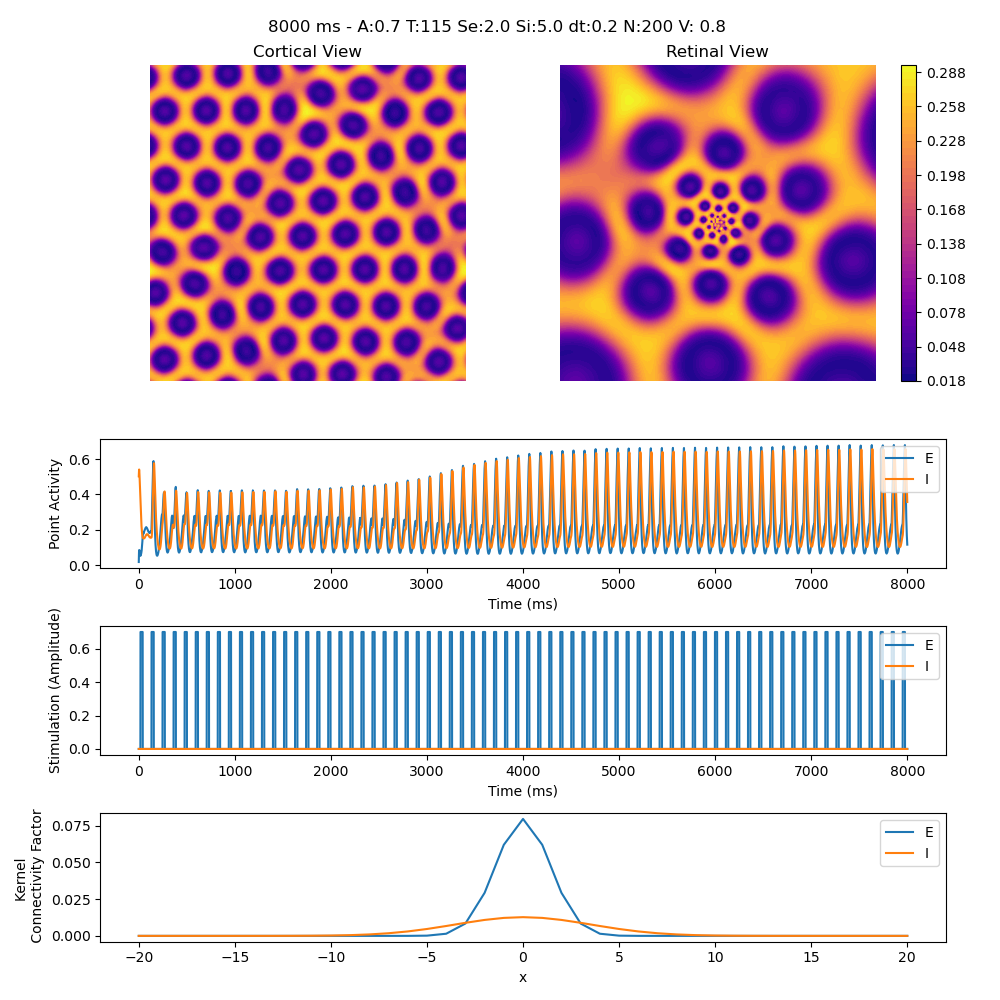
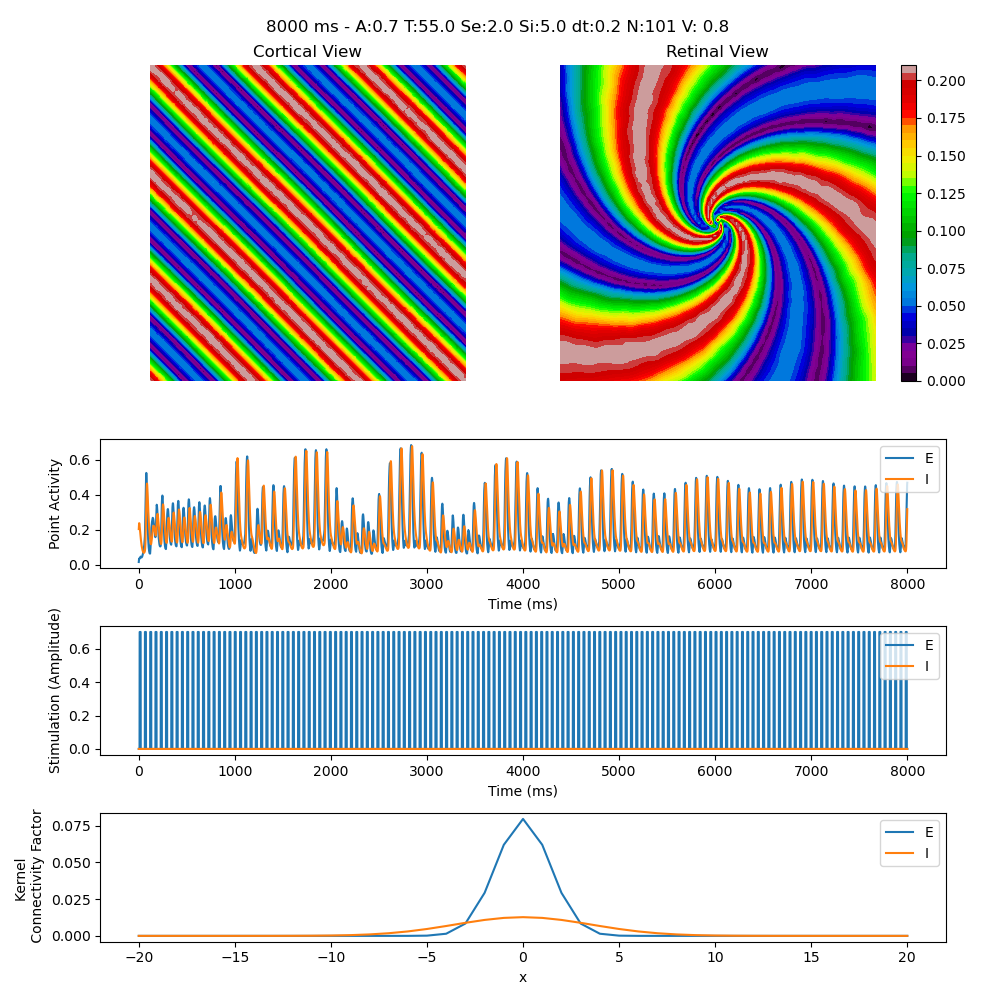
edited README, added environment.yml

diff --git a/src/model.py b/src/model.py
@@ -1,5 +1,4 @@
 import numpy as np
-from scipy.signal import fftconvolve
 from tqdm import tqdm
 
 from .params import ModelParams

diff --git a/README.md b/README.md
@@ -1,60 +1,61 @@
-# Python Implementation of the Rule–Stoffregen–Ermentrout (2011) Stroboscopic Hallucination Model
-*A project for systematically exploring and creating flicker-induced geometric hallucinations.*
+# Python Implementation of the Rule–Stoffregen–Ermentrout Model of Stroboscopic Hallucinations
+*A project for systematically exploring and generating simulations of flicker-induced geometric hallucinations.*
 
 The original paper:
 > Rule, M., Stoffregen, M., & Ermentrout, B. (2011). *A Model for the Origin and Properties of Flicker-Induced Geometric Phosphenes*. **PLoS Computational Biology, 7**(9), e1002158. https://doi.org/10.1371/journal.pcbi.1002158
 
 ## ⚠ Safety
-**Flashing-light sensitivity warning.** The GIFs contain high-frequency flashing images that be harmful to photosensitive individuals. View with care.
-
-## Features
-- **Deterministic runs**: optional fixed random seed for reproducible outputs.
-- **Visualization**: interval snapshots, optional GIF export.
+**Flashing-light sensitivity warning.** The GIFs contain high-frequency flashing images that may be harmful to photosensitive individuals. View with care.
 
 ## Installation
 
-    git clone <this_repository_URL>
-    cd <repository_name>
-    python -m venv .venv
-    source .venv/bin/activate  # Windows: .venv\Scripts\activate
-    pip install -r requirements.txt
+    git clone <https://github.com/ejgrove/rse_model.git>
+    cd <rse_model>
+    conda env create -f environment.yml
+    conda activate rse-model
 
 ## Quick start
 Run the simulation script in the CLI, or test out the notebook ```demo.ipynb```. 
 
-CLI demo
+CLI examples
 ```
 # Generate cortical and retinal images
-# --end sets the duration of the simulation in ms
-# --images specifies whether to output the retinal, cortical, or both images
-python -m src.cli --end 5000 --images both
+# --interval [INTERVAL]: sets time intervals (ms) of image sampling
+# --end [END]: sets the duration (ms) of the simulation
+# --images [IMAGES]: specifies whether to output the retinal, cortical, or both images
+# --grid-size [GRID-SIZE]: specifies the sidelength of the neural field
 
-# Generate a GIF
-# --fps (frames/second)
-python -m src.cli --end 5000 --gif --fps 30
+python -m src.cli --interval 8000 --end 8000 --images both --label --grid-size 200
 ```
+<img src="assets/images/cortical_8000ms.png" alt="Cortical Plot" width="350"> <img src="assets/images/retinal_8000ms.png" alt="Retinal Plot" width="350">
+
+
+```
+# Generate a plot
+# --plot: Outputs plot
+# --seed [SEED]: Sets random seed (default is none)
+# --cmap [CMAP]: Sets matplotlib compatible colormap
+# --T [T]: Sets the period (ms) of the stroboscopic stimulation
+
+python -m src.cli --interval 8000 --end 8000 --plot --label --seed 42 --cmap nipy_spectral --T 55
+```
+<img src="assets/plots/plot_8000ms.png" alt="" width="700">
+
+```
+# Generate a GIF
+
+python -m src.cli --end 8000 --gif --grid-size 100 --seed 43 --cmap nipy_spectral --T 50
+```
+[```assets/gifs/example4_progression_T50_nipy_spectral.gif```](assets/gifs/example4_progression_T50_nipy_spectral.gif)) – WARNING: flashing content
+
 
 - Try period (T) ranges 50–60 to produce roll planiforms and 110–130 for spots
 - Adjust the size of the neural field (N) to see how it effects the formation of the patterns
 - See [```cli.py```](src/cli.py) for description of all parameters
 
-## Example outputs
+## More Examples
 
-### Images
-
-<img src="assets/images/cortical_8000ms.png" alt="Cortical Plot" width="350"> <img src="assets/images/retinal_8000ms.png" alt="Retinal Plot" width="350">
-
-```python -m src.cli --interval 8000 --end 8000 --images both --label --grid-size 200```
-
-### Plots
-
-<img src="assets/plots/plot_8000ms.png" alt="" width="500">
-
-```python -m src.cli --interval 8000 --end 8000 --plot --label --grid-size 200```
-
-### Gifs 
-
-Examples found in [```assets/gifs```](assets/gifs)) – WARNING: flashing content
+See [```assets/gifs```](assets/gifs) for more examples – WARNING: flashing content
 
 ## License
-MIT. See LICENSE.
+MIT. See [```LICENSE```](LICENSE/)
